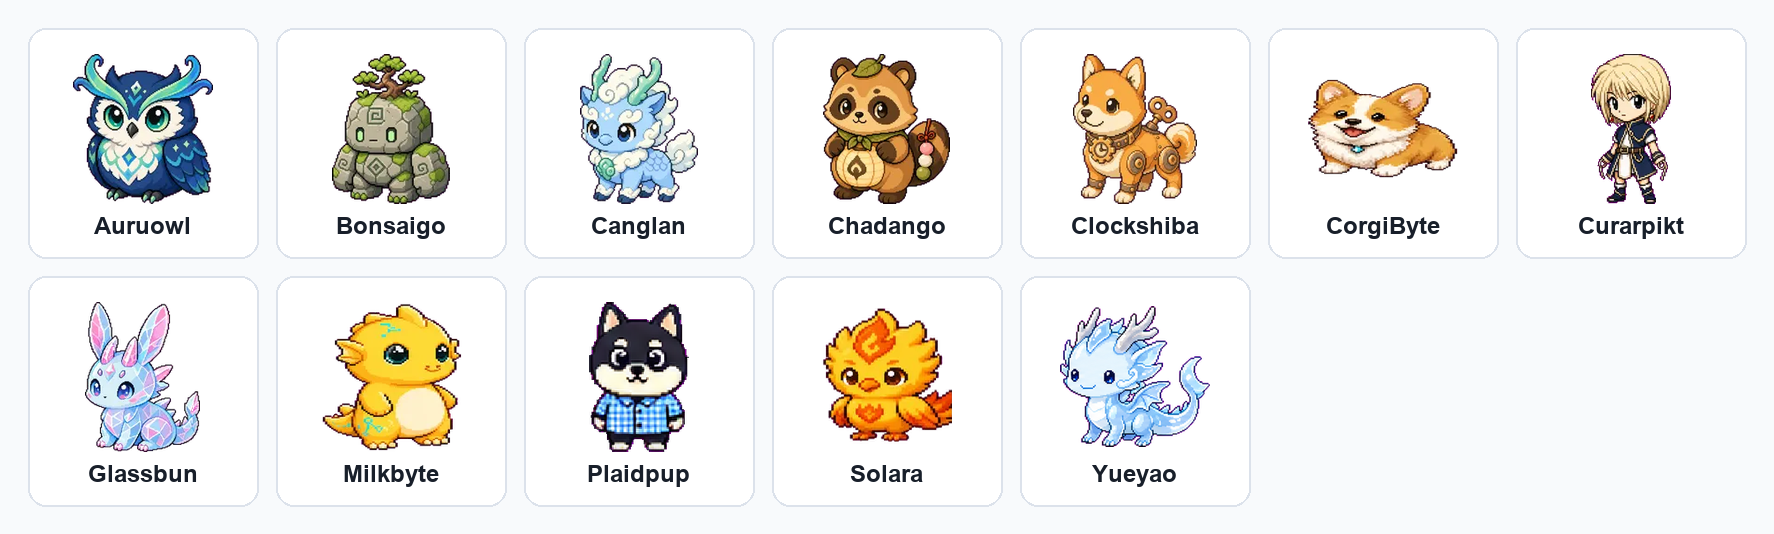
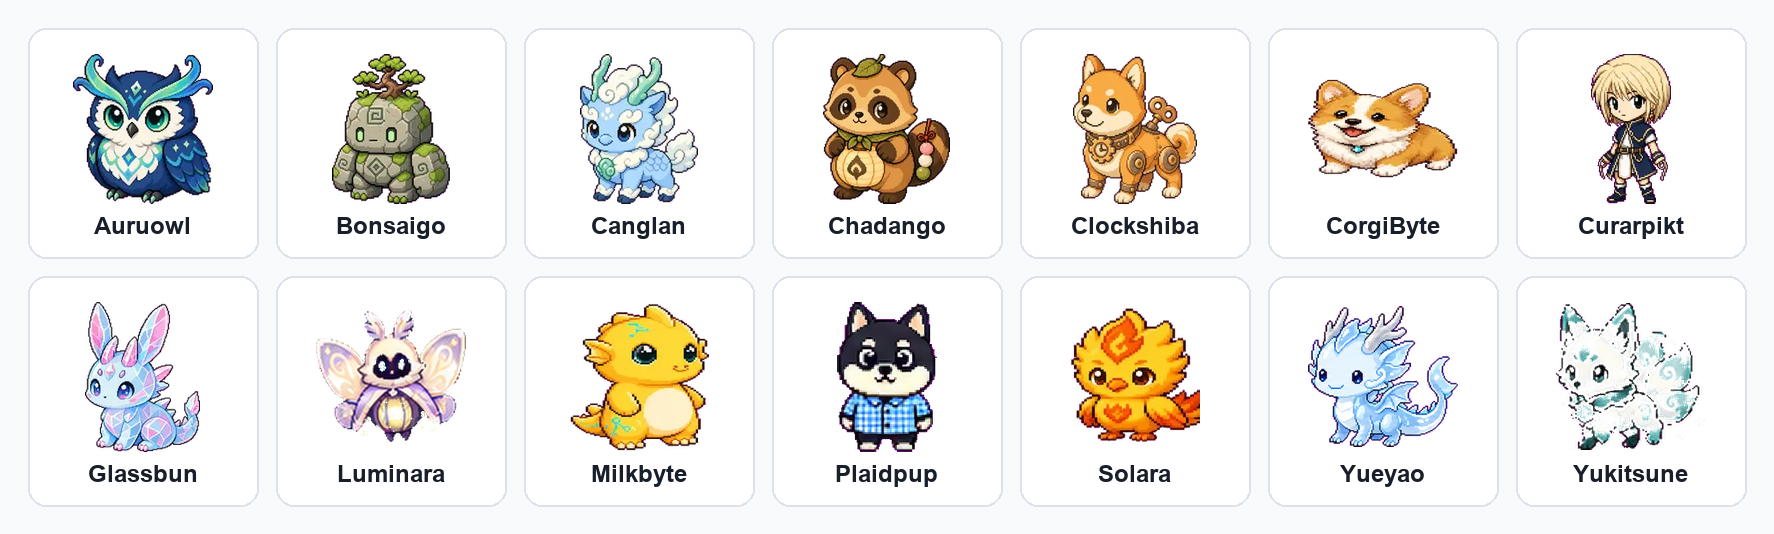
新增两只宠物
- 新增,Luminara 月灯蛾法师宠物包
- 新增,Yukitsune 雪冠狐宠物包
- 更新,中英文宠物图库和安装说明

diff --git a/README.md b/README.md
@@ -3,13 +3,13 @@
 > A growing collection of custom pets for Codex Desktop.
 
 [![License: MIT](https://img.shields.io/badge/License-MIT-green.svg)](LICENSE)
-[![Pets](https://img.shields.io/badge/pets-12-blue.svg)](#pets)
+[![Pets](https://img.shields.io/badge/pets-14-blue.svg)](#pets)
 
 [中文说明](README_CN.md)
 
 ## Pets
 
-![Codex pet gallery](assets/pet-gallery.png?v=12-curarpikt)
+![Codex pet gallery](assets/pet-gallery.png?v=14-yukitsune)
 
 | Pet | Description | Package |
 | --- | --- | --- |
@@ -20,10 +20,12 @@
 | Clockshiba | A clockwork shiba pup with a copper gear collar. | [clockshiba.codex-pet.zip](packages/clockshiba.codex-pet.zip) |
 | CorgiByte | A cheerful short-legged corgi coding buddy with a tiny cyan spark charm. | [corgibyte.codex-pet.zip](packages/corgibyte.codex-pet.zip) |
 | Glassbun | A glass bunny-dragon hybrid companion with tiny horn ears. | [glassbun.codex-pet.zip](packages/glassbun.codex-pet.zip) |
+| Luminara | A moon lantern moth mage companion with soft wings. | [luminara.codex-pet.zip](packages/luminara.codex-pet.zip) |
 | Milkbyte | A warm yellow baby dragon with a cream belly and tiny cyan code-spark accents. | [milkbyte.codex-pet.zip](packages/milkbyte.codex-pet.zip) |
 | Plaidpup | A black shiba pup in a blue plaid shirt with coherent playful poses. | [plaidpup.codex-pet.zip](packages/plaidpup.codex-pet.zip) |
 | Solara | A tiny solar phoenix chick with an ember crest. | [solara.codex-pet.zip](packages/solara.codex-pet.zip) |
 | Curarpikt | A focused blond chain guardian with a calm, watchful presence. | [vowlet.codex-pet.zip](packages/vowlet.codex-pet.zip) |
+| Yukitsune | A snowcap kitsune cub with frosted ear tips. | [yukitsune.codex-pet.zip](packages/yukitsune.codex-pet.zip) |
 | Yueyao | A rare moonlit glass dragon companion for quiet deep work. | [yueyao.codex-pet.zip](packages/yueyao.codex-pet.zip) |
 
 Full animation previews are available in each pet's `assets/<pet-id>/` folder.

diff --git a/README_CN.md b/README_CN.md
@@ -3,13 +3,13 @@
 > Codex Desktop 自定义宠物合集。
 
 [![License: MIT](https://img.shields.io/badge/License-MIT-green.svg)](LICENSE)
-[![Pets](https://img.shields.io/badge/pets-12-blue.svg)](#宠物)
+[![Pets](https://img.shields.io/badge/pets-14-blue.svg)](#宠物)
 
 [English](README.md)
 
 ## 宠物
 
-![Codex 宠物宫格](assets/pet-gallery-cn.png?v=12-curarpikt)
+![Codex 宠物宫格](assets/pet-gallery-cn.png?v=14-yukitsune)
 
 | 宠物 | 说明 | 安装包 |
 | --- | --- | --- |
@@ -20,10 +20,12 @@
 | Clockshiba（发条柴犬） | 戴着铜色齿轮项圈的发条柴犬，适合精神满满地陪你工作。 | [clockshiba.codex-pet.zip](packages/clockshiba.codex-pet.zip) |
 | CorgiByte（短腿柯基） | 开朗的短腿柯基代码伙伴，戴着小小青蓝火花挂坠。 | [corgibyte.codex-pet.zip](packages/corgibyte.codex-pet.zip) |
 | Glassbun（琉璃兔龙） | 长着小角耳的琉璃兔龙伙伴，晶莹轻快，适合安静陪伴。 | [glassbun.codex-pet.zip](packages/glassbun.codex-pet.zip) |
+| Luminara（月灯蛾法师） | 有柔软翅膀的月灯蛾法师伙伴，适合安静陪你专注工作。 | [luminara.codex-pet.zip](packages/luminara.codex-pet.zip) |
 | Milkbyte（奶黄小龙） | 温暖的黄色奶龙小伙伴，奶油色肚皮和青蓝小火花点缀，适合轻松陪伴工作。 | [milkbyte.codex-pet.zip](packages/milkbyte.codex-pet.zip) |
 | Plaidpup（蓝格衬衫黑柴） | 穿蓝格衬衫的黑柴小伙伴，动作更连贯、适合轻松陪伴。 | [plaidpup.codex-pet.zip](packages/plaidpup.codex-pet.zip) |
 | Solara（太阳小凤凰） | 头顶微光羽冠的太阳小凤凰，适合明亮轻快地陪伴工作。 | [solara.codex-pet.zip](packages/solara.codex-pet.zip) |
 | Curarpikt（酷拉皮卡） | 安静专注的酷拉皮卡，适合陪你检查、思考和推进任务。 | [vowlet.codex-pet.zip](packages/vowlet.codex-pet.zip) |
+| Yukitsune（雪冠狐） | 耳尖带霜的小雪狐伙伴，适合轻盈安静地陪伴工作。 | [yukitsune.codex-pet.zip](packages/yukitsune.codex-pet.zip) |
 | Yueyao（月曜琉璃龙） | 稀有的月光琉璃龙，适合安静陪伴你深度工作。 | [yueyao.codex-pet.zip](packages/yueyao.codex-pet.zip) |
 
 每个宠物的完整动画预览可在对应的 `assets/<pet-id>/` 目录查看。